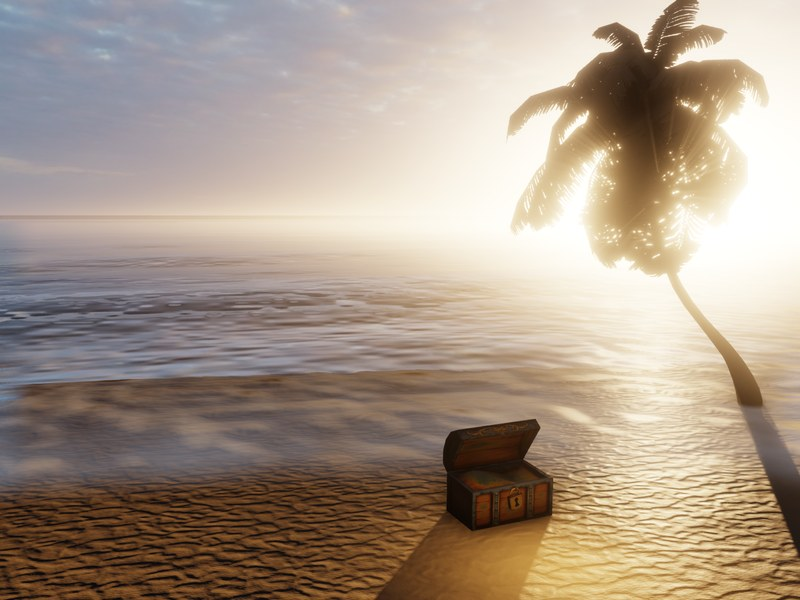
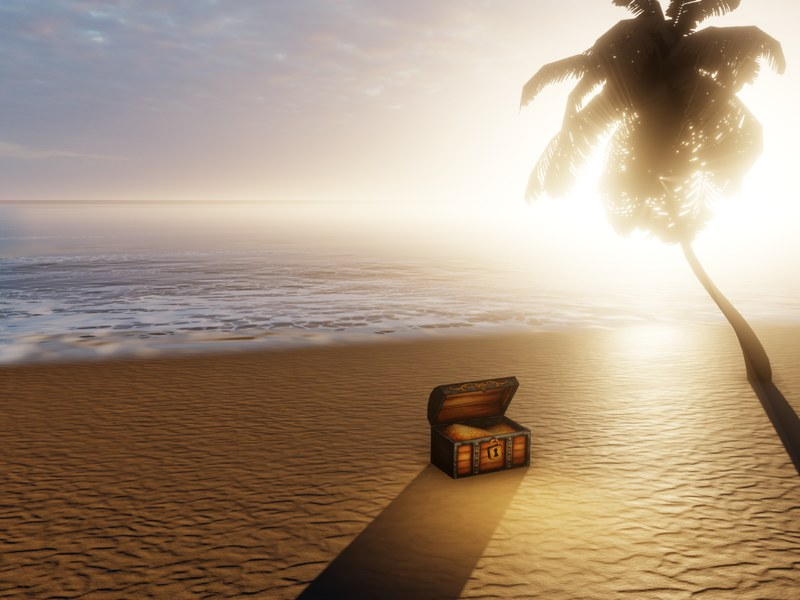
Beach: a lace of foam on the waves and the shore, a chest and a palm out of the reach of the water, a bright gold, a clearer sway of the camera, a smoother sand

diff --git a/engine/src/test/java/io/github/trimax/venta/engine/shaders/FoamShaderTest.java b/engine/src/test/java/io/github/trimax/venta/engine/shaders/FoamShaderTest.java
@@ -1,0 +1,106 @@
+package io.github.trimax.venta.engine.shaders;
+
+import static org.junit.jupiter.api.Assertions.*;
+
+import java.util.List;
+import java.util.Map;
+
+import org.junit.jupiter.api.BeforeAll;
+import org.junit.jupiter.api.Test;
+
+/**
+ * The lace of the foam (common/foam.glsl) on the GPU.
+ */
+final class FoamShaderTest {
+    private static final float EPSILON = 1e-4f;
+    private static final List<String> INCLUDES = List.of("common/foam.glsl");
+
+    private static ShaderHarness harness;
+
+    @BeforeAll
+    static void context() {
+        GLTestContext.require();
+        harness = new ShaderHarness();
+    }
+
+    private static float lace(final float x, final float z, final float scale) {
+        return harness.run(INCLUDES, "uniform vec2 position; uniform float scale;", "outputColor = vec4(getFoamLace(position, scale));",
+                Map.of("position", new float[]{x, z}, "scale", scale))[0];
+    }
+
+    private static float[] distances(final float x, final float z) {
+        return harness.run(INCLUDES, "uniform vec2 position;", "outputColor = vec4(getFoamDistances(position), 0.0, 1.0);",
+                Map.of("position", new float[]{x, z}));
+    }
+
+    @Test
+    void testLaceIsBetweenNothingAndAll() {
+        for (var x = 0.f; x < 20.f; x += 0.37f)
+            for (var z = 0.f; z < 20.f; z += 0.53f) {
+                final var value = lace(x, z, 2.f);
+                assertTrue(value >= 0.f && value <= 1.f, "At " + x + ", " + z + ": " + value);
+            }
+    }
+
+    @Test
+    void testLaceIsTheSameAtTheSamePlace() {
+        assertEquals(lace(3.2f, 7.9f, 2.f), lace(3.2f, 7.9f, 2.f), EPSILON);
+    }
+
+    @Test
+    void testLaceHasBubblesAndGaps() {
+        var bubbles = 0;
+        var gaps = 0;
+        for (var x = 0.f; x < 30.f; x += 0.21f)
+            for (var z = 0.f; z < 30.f; z += 0.29f) {
+                final var value = lace(x, z, 2.f);
+                if (value > 0.7f)
+                    bubbles++;
+
+                if (value < 0.2f)
+                    gaps++;
+            }
+
+        assertTrue(bubbles > 50, "There is foam: " + bubbles);
+        assertTrue(gaps > 50, "And there are gaps in it: " + gaps);
+    }
+
+    @Test
+    void testLaceChangesSmoothlyAcrossTheNeighbouringPoints() {
+        var largest = 0.f;
+        for (var x = 0.f; x < 10.f; x += 0.01f)
+            largest = Math.max(largest, Math.abs(lace(x + 0.01f, 3.f, 2.f) - lace(x, 3.f, 2.f)));
+
+        assertTrue(largest < 0.35f, "No jumps of the lace between points that are a hundredth apart: " + largest);
+    }
+
+    @Test
+    void testNearestPointIsNearerThanTheSecondOne() {
+        for (var x = 0.f; x < 6.f; x += 0.31f)
+            for (var z = 0.f; z < 6.f; z += 0.43f) {
+                final var result = distances(x, z);
+                assertTrue(result[0] <= result[1], "At " + x + ", " + z + ": " + result[0] + " and " + result[1]);
+                assertTrue(result[0] >= 0.f && result[1] < 3.f);
+            }
+    }
+
+    @Test
+    void testBiggerScaleMakesSmallerBubbles() {
+        // The number of the changes of the lace along a line grows with the scale
+        assertTrue(crossings(1.f) < crossings(4.f), "Finer lace with a bigger scale: " + crossings(1.f) + " against " + crossings(4.f));
+    }
+
+    private static int crossings(final float scale) {
+        var count = 0;
+        var above = lace(0.f, 1.f, scale) > 0.5f;
+        for (var x = 0.f; x < 20.f; x += 0.05f) {
+            final var now = lace(x, 1.f, scale) > 0.5f;
+            if (now != above)
+                count++;
+
+            above = now;
+        }
+
+        return count;
+    }
+}

diff --git a/examples/src/main/java/io/github/trimax/examples/beach/handlers/BeachApplicationUpdateHandler.java b/examples/src/main/java/io/github/trimax/examples/beach/handlers/BeachApplicationUpdateHandler.java
@@ -18,15 +18,15 @@ public final class BeachApplicationUpdateHandler implements VentaEngineUpdateHan
     /** Where the camera is: on the sand, 2.75 meters over the ground (a person on a low dune), and where it looks (the angles are from -z, to +x, in radians) */
     private static final float POSITION_X = 0.f;
     private static final float POSITION_Y = 3.4f;
-    private static final float POSITION_Z = 26.f;
+    private static final float POSITION_Z = 30.f;
     private static final float YAW = (float) Math.toRadians(14.0);
-    private static final float PITCH = (float) Math.toRadians(-7.5);
+    private static final float PITCH = (float) Math.toRadians(-8.5);
 
     /** How much the camera sways: the head, in radians, and the eyes, in meters */
-    private static final float SWAY_YAW = 0.0065f;
-    private static final float SWAY_PITCH = 0.0035f;
-    private static final float SWAY_HEIGHT = 0.02f;
-    private static final float SWAY_SIDE = 0.015f;
+    private static final float SWAY_YAW = 0.016f;
+    private static final float SWAY_PITCH = 0.009f;
+    private static final float SWAY_HEIGHT = 0.05f;
+    private static final float SWAY_SIDE = 0.04f;
 
     private final BeachApplicationState state;
 
@@ -37,11 +37,11 @@ public final class BeachApplicationUpdateHandler implements VentaEngineUpdateHan
     public void onUpdate(final Engine.VentaTime time, final VentaContext context) {
         final var t = (float) time.getTimeElapsed();
 
-        final var yaw = YAW + SWAY_YAW * (float) (Math.sin(t * 0.31) * 0.7 + Math.sin(t * 0.83 + 1.3) * 0.3);
-        final var pitch = PITCH + SWAY_PITCH * (float) (Math.sin(t * 0.43 + 1.0) * 0.65 + Math.sin(t * 1.1) * 0.35);
+        final var yaw = YAW + SWAY_YAW * (float) (Math.sin(t * 0.52) * 0.7 + Math.sin(t * 1.21 + 1.3) * 0.3);
+        final var pitch = PITCH + SWAY_PITCH * (float) (Math.sin(t * 0.67 + 1.0) * 0.65 + Math.sin(t * 1.5) * 0.35);
 
-        position.set(POSITION_X + SWAY_SIDE * (float) Math.sin(t * 0.37),
-                POSITION_Y + SWAY_HEIGHT * (float) (Math.sin(t * 0.9) * 0.6 + Math.sin(t * 2.3 + 0.5) * 0.4),
+        position.set(POSITION_X + SWAY_SIDE * (float) Math.sin(t * 0.43),
+                POSITION_Y + SWAY_HEIGHT * (float) (Math.sin(t * 1.1) * 0.6 + Math.sin(t * 2.6 + 0.5) * 0.4),
                 POSITION_Z);
 
         target.set(position).add(

diff --git a/engine/src/test/java/io/github/trimax/venta/engine/shaders/WaterDepthShaderTest.java b/engine/src/test/java/io/github/trimax/venta/engine/shaders/WaterDepthShaderTest.java
@@ -87,10 +87,11 @@ final class WaterDepthShaderTest {
 
     @Test
     void testPatternBreaksTheFoamIntoPatches() {
-        final var full = foam(0.2f, 1.2f, 1.f, 1.f);
-        final var broken = foam(0.2f, 1.2f, 1.f, 0.f);
+        final var full = foam(0.7f, 1.2f, 1.f, 1.f);
+        final var broken = foam(0.7f, 1.2f, 1.f, 0.f);
 
-        assertTrue(full > broken && broken > 0.f, "A dim spot of the pattern has less foam, not none: " + broken + " against " + full);
+        assertTrue(full > broken, "A gap of the lace has less foam than a bubble: " + broken + " against " + full);
+        assertEquals(1.f, foam(0.f, 1.2f, 1.f, 0.f), EPSILON, "But at the very edge even a gap of the lace is foam");
     }
 
     @Test
@@ -141,7 +142,7 @@ final class WaterDepthShaderTest {
 
     private static float bands(final float thickness, final float width, final float intensity, final float time) {
         return harness.run(INCLUDES, "uniform float thickness; uniform float width; uniform float intensity; uniform float time;",
-                "outputColor = vec4(getFoamBands(thickness, width, intensity, time));",
+                "outputColor = vec4(getFoamBands(thickness, width, intensity, time, 1.0));",
                 Map.of("thickness", thickness, "width", width, "intensity", intensity, "time", time))[0];
     }
 
